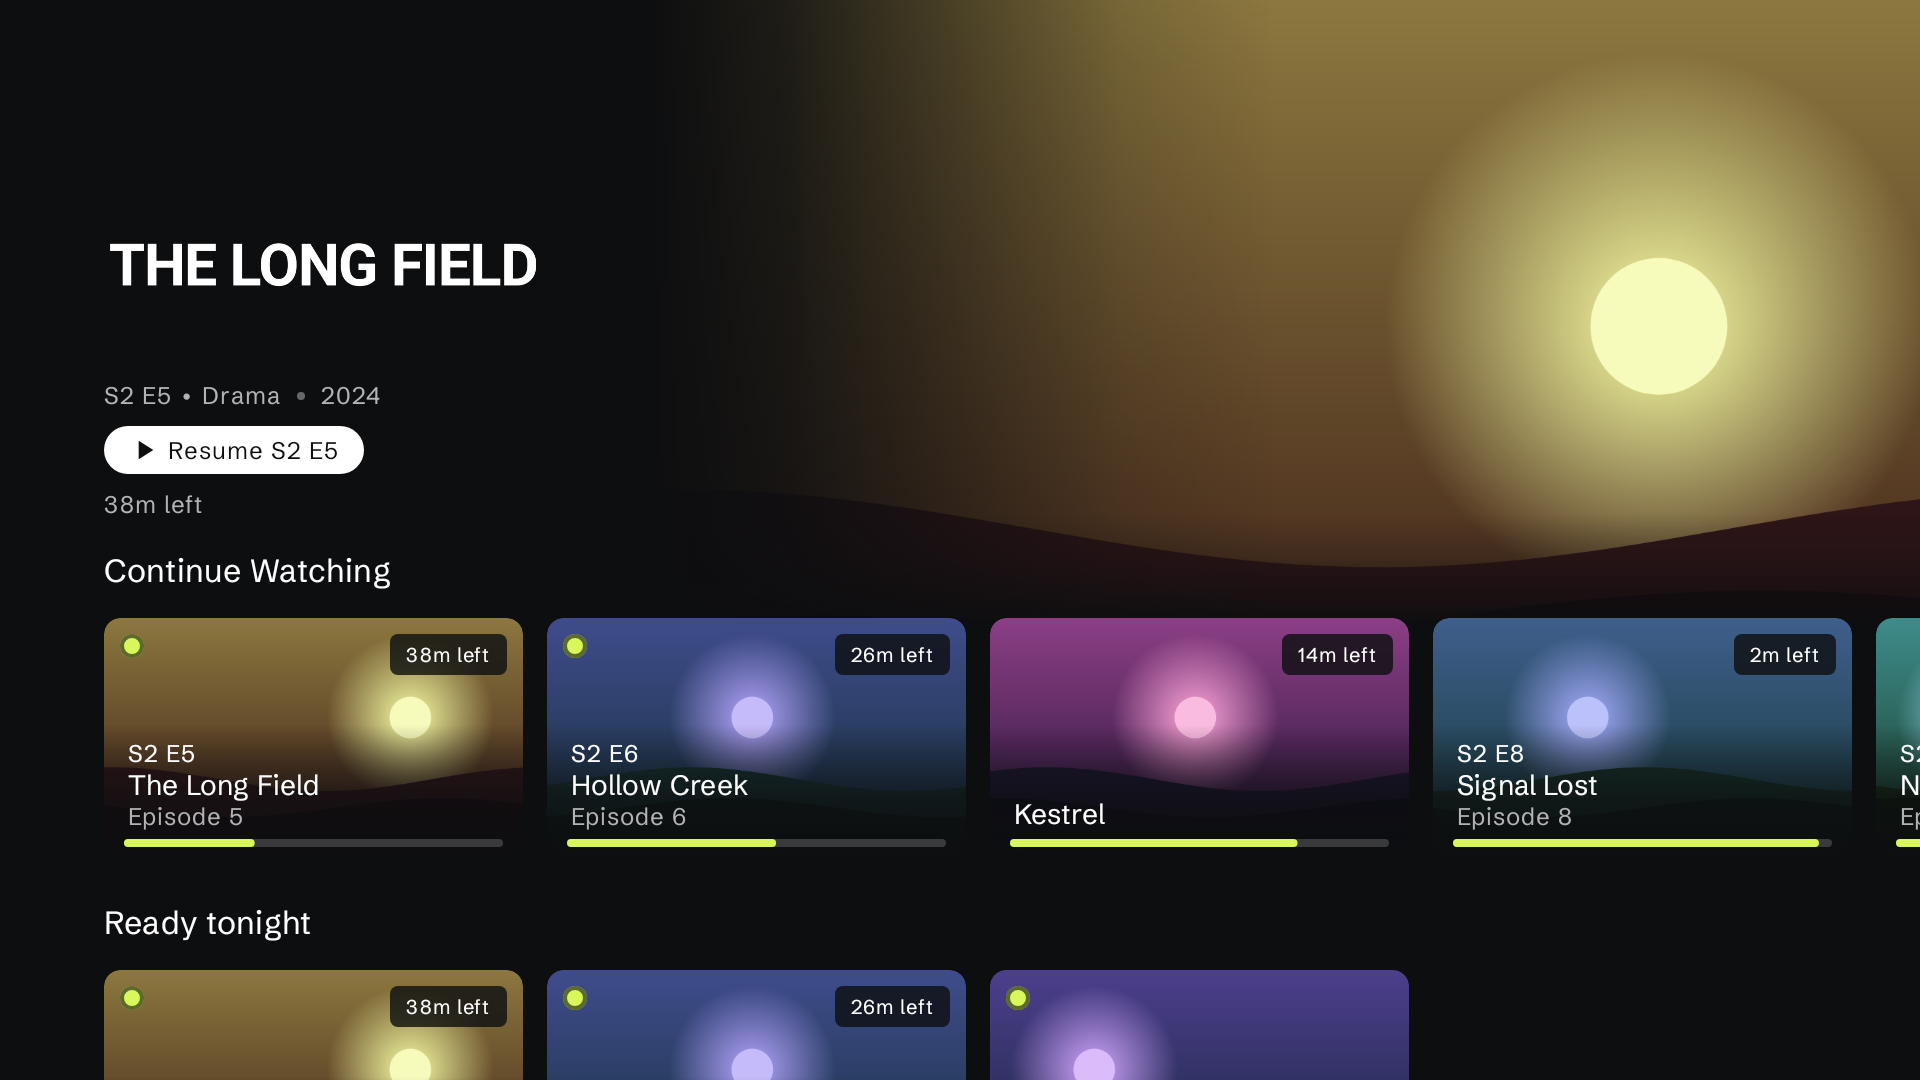
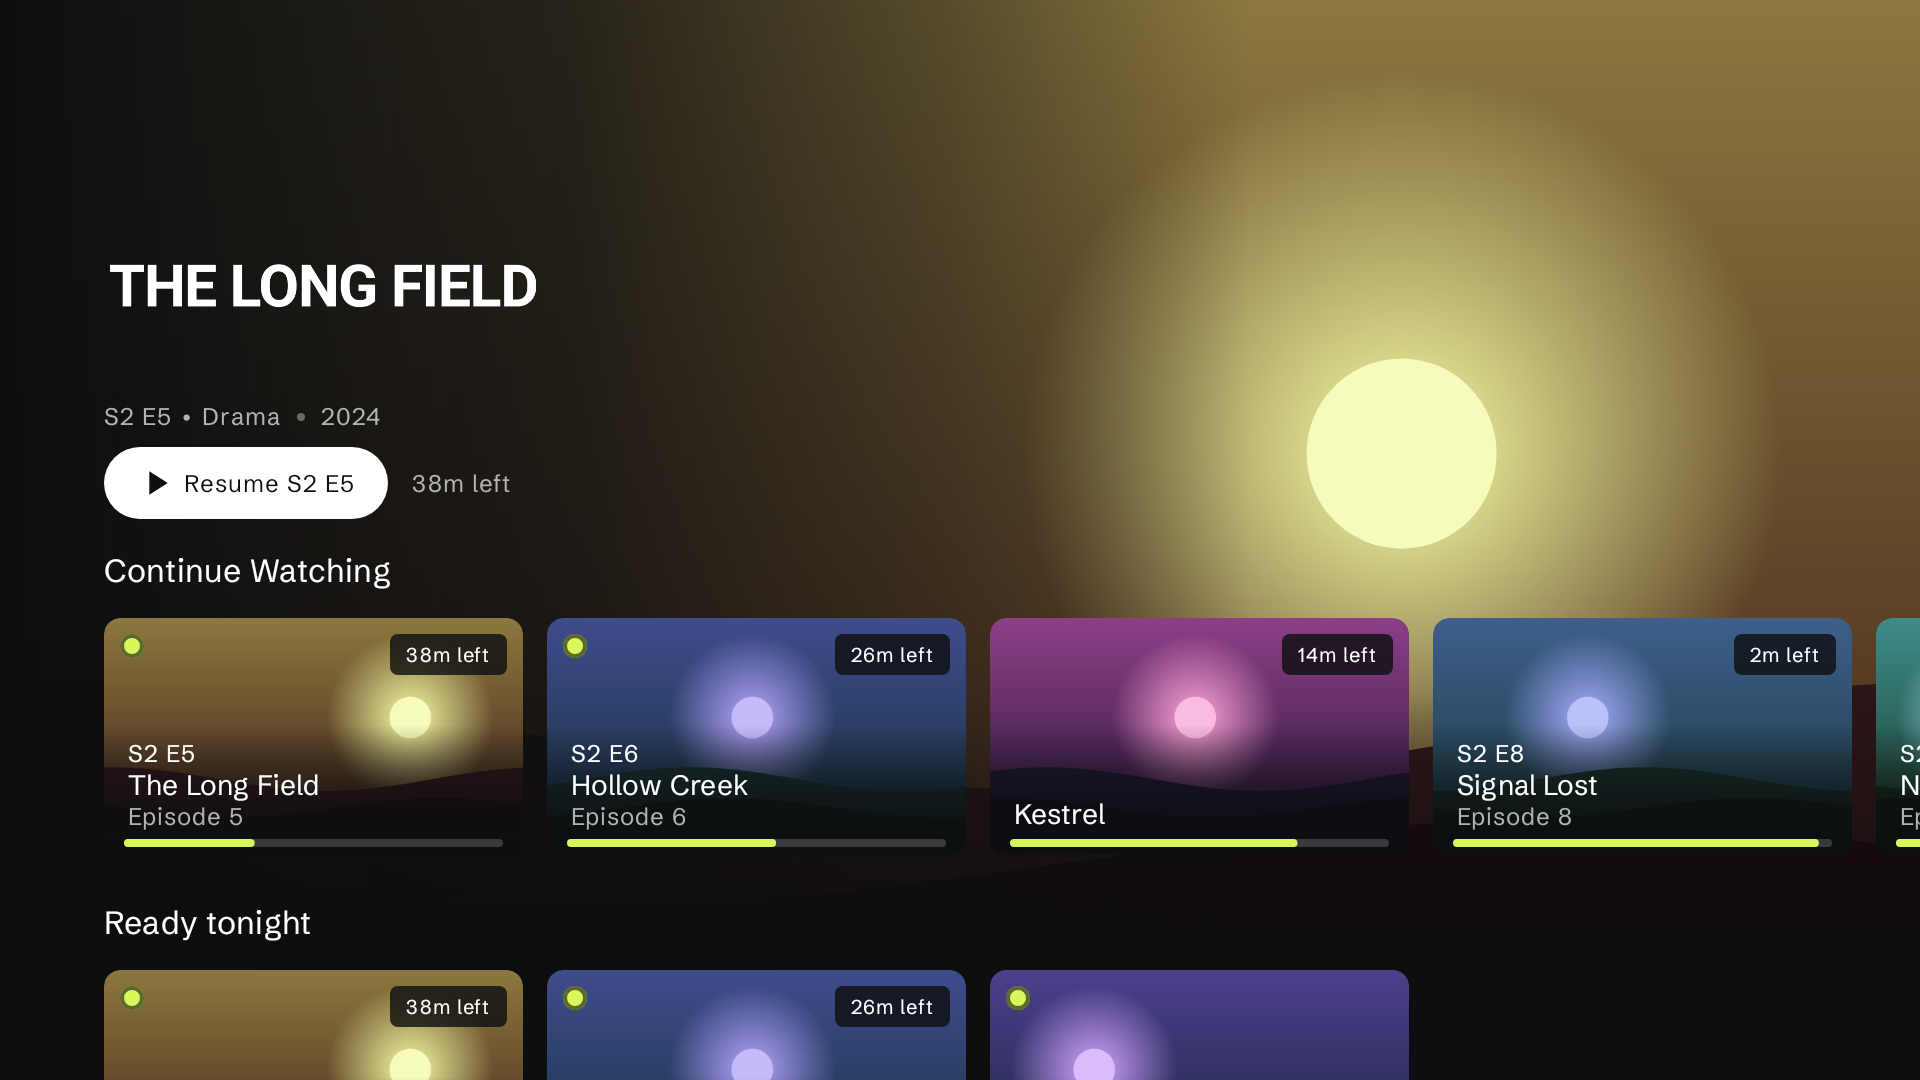
Give the Home hero full-bleed art and one clear action
The full-screen backdrop is now the default for anyone who hasn't set
it, so the art fills the screen behind the rows. Continue Watching titles
drop the description so Resume is the main thing, with its spec strip
beside the button; other titles keep two lines of description, down
from four.

Claude-Session: https://claude.ai/code/session_01Ha3w4BHa8kbYViNqMcb1DZ

Changed region(s): [[0.2812, 0.0, 1.0, 0.7333], [0.0312, 0.3667, 0.2812, 0.4889], [0.0625, 0.2139, 0.2812, 0.3056]]

diff --git a/app/src/main/java/com/fetch/tv/ui/screens/home/ModernHomeHero.kt b/app/src/main/java/com/fetch/tv/ui/screens/home/ModernHomeHero.kt
@@ -356,7 +356,9 @@ private fun HeroTitleContent(
 ) {
     val preview = previewProvider() ?: return
     val highlighterEnabled = LocalRecompositionHighlighterEnabled.current
-    val descriptionMaxLines = 4
+    // The hero keeps little text over the art: two lines of description at most, and none when
+    // Resume is there to be the main thing.
+    val descriptionMaxLines = 2
     val descriptionScale = if (portraitMode) 0.90f else 1f
     val titleScale = if (portraitMode) 0.92f else 1f
     val metaScale = 1f
@@ -657,7 +659,7 @@ private fun HeroTitleContent(
             }
         }
 
-        preview.description?.takeIf { it.isNotBlank() }?.let { description ->
+        preview.description?.takeIf { it.isNotBlank() && preview.resumeActionText == null }?.let { description ->
             Text(
                 text = description,
                 style = scaledDescriptionStyle.copy(textDirection = description.contentTextDirection()),
@@ -707,15 +709,16 @@ private fun HeroResumeRow(
     textStyle: androidx.compose.ui.text.TextStyle,
     modifier: Modifier = Modifier
 ) {
-    // The spec line sits under the button: beside it, the hero's narrow column cut it short.
-    Column(
+    // The spec strip sits beside the button, so the action and what it will play read as one line.
+    Row(
         modifier = modifier,
-        verticalArrangement = Arrangement.spacedBy(FetchTheme.spacing.sm)
+        verticalAlignment = Alignment.CenterVertically,
+        horizontalArrangement = Arrangement.spacedBy(FetchTheme.spacing.md)
     ) {
         Row(
             modifier = Modifier
                 .background(FetchTheme.colors.TextPrimary, RoundedCornerShape(50))
-                .padding(horizontal = FetchTheme.spacing.md, vertical = FetchTheme.spacing.xs),
+                .padding(horizontal = FetchTheme.spacing.lg, vertical = FetchTheme.spacing.sm),
             verticalAlignment = Alignment.CenterVertically,
             horizontalArrangement = Arrangement.spacedBy(FetchTheme.spacing.xs)
         ) {
@@ -723,7 +726,7 @@ private fun HeroResumeRow(
                 imageVector = Icons.Filled.PlayArrow,
                 contentDescription = null,
                 tint = FetchTheme.colors.Background,
-                modifier = Modifier.size(16.dp)
+                modifier = Modifier.size(20.dp)
             )
             Text(
                 text = actionText,
@@ -733,7 +736,7 @@ private fun HeroResumeRow(
             )
         }
         specLine?.let { line ->
-            SpecStrip(line = line, style = textStyle)
+            SpecStrip(line = line, style = textStyle, modifier = Modifier.weight(1f, fill = false))
         }
     }
 }

diff --git a/app/src/main/java/com/fetch/tv/ui/screens/home/HomeViewModelPresentationPipeline.kt b/app/src/main/java/com/fetch/tv/ui/screens/home/HomeViewModelPresentationPipeline.kt
@@ -162,7 +162,7 @@ internal fun HomeViewModel.observeLayoutPreferencesPipeline() {
             hideUnreleasedContent = corePrefs.hideUnreleasedContent,
             showFullReleaseDate = corePrefs.showFullReleaseDate,
             modernLandscapePostersEnabled = false,
-            modernHeroFullScreenBackdropEnabled = false,
+            modernHeroFullScreenBackdropEnabled = true,
             homeImdbRatingsVisibility = HomeImdbRatingsVisibility.SHOW_ALL,
             focusedBackdropExpandEnabled = focusedBackdropPrefs.expandEnabled,
             focusedBackdropExpandDelaySeconds = focusedBackdropPrefs.expandDelaySeconds,

diff --git a/app/src/main/java/com/fetch/tv/ui/screens/home/HomeUiState.kt b/app/src/main/java/com/fetch/tv/ui/screens/home/HomeUiState.kt
@@ -26,7 +26,7 @@ data class HomeUiState(
     val installedAddonsCount: Int = 0,
     val modernLandscapePostersEnabled: Boolean = true,
     val alwaysShowLandscapeClearlogo: Boolean = false,
-    val modernHeroFullScreenBackdropEnabled: Boolean = false,
+    val modernHeroFullScreenBackdropEnabled: Boolean = true,
     val homeImdbRatingsVisibility: HomeImdbRatingsVisibility = HomeImdbRatingsVisibility.SHOW_ALL,
     val detailImdbRatingsVisibility: DetailImdbRatingsVisibility = DetailImdbRatingsVisibility.SHOW_ALL,
     val heroItems: List<MetaPreview> = emptyList(),

diff --git a/app/src/main/java/com/fetch/tv/ui/screens/settings/LayoutSettingsViewModel.kt b/app/src/main/java/com/fetch/tv/ui/screens/settings/LayoutSettingsViewModel.kt
@@ -39,7 +39,7 @@ import javax.inject.Inject
 data class LayoutSettingsUiState(
     val sidebarCollapsedByDefault: Boolean = false,
     val modernLandscapePostersEnabled: Boolean = true,
-    val modernHeroFullScreenBackdropEnabled: Boolean = false,
+    val modernHeroFullScreenBackdropEnabled: Boolean = true,
     val discoverLocation: DiscoverLocation = DiscoverLocation.IN_SEARCH,
     val lastNonOffDiscoverLocation: DiscoverLocation = DiscoverLocation.IN_SEARCH,
     val posterLabelsEnabled: Boolean = true,

diff --git a/app/src/main/java/com/fetch/tv/ui/screens/collection/FolderDetailViewModel.kt b/app/src/main/java/com/fetch/tv/ui/screens/collection/FolderDetailViewModel.kt
@@ -70,7 +70,7 @@ data class FolderDetailUiState(
     val hideUnreleasedContent: Boolean = false,
     val showFullReleaseDate: Boolean = true,
     val modernLandscapePostersEnabled: Boolean = true,
-    val modernHeroFullScreenBackdropEnabled: Boolean = false,
+    val modernHeroFullScreenBackdropEnabled: Boolean = true,
     val focusedPosterBackdropExpandEnabled: Boolean = false,
     val focusedPosterBackdropExpandDelaySeconds: Int = 3,
     val focusedPosterBackdropTrailerEnabled: Boolean = false,

diff --git a/app/src/main/java/com/fetch/tv/data/local/LayoutPreferenceDataStore.kt b/app/src/main/java/com/fetch/tv/data/local/LayoutPreferenceDataStore.kt
@@ -234,7 +234,7 @@ class LayoutPreferenceDataStore @Inject constructor(
     }
 
     val modernHeroFullScreenBackdropEnabled: Flow<Boolean> = profileFlow { prefs ->
-        prefs[modernHeroFullScreenBackdropKey] ?: false
+        prefs[modernHeroFullScreenBackdropKey] ?: true
     }
 
     val heroSectionEnabled: Flow<Boolean> = profileFlow { prefs ->
